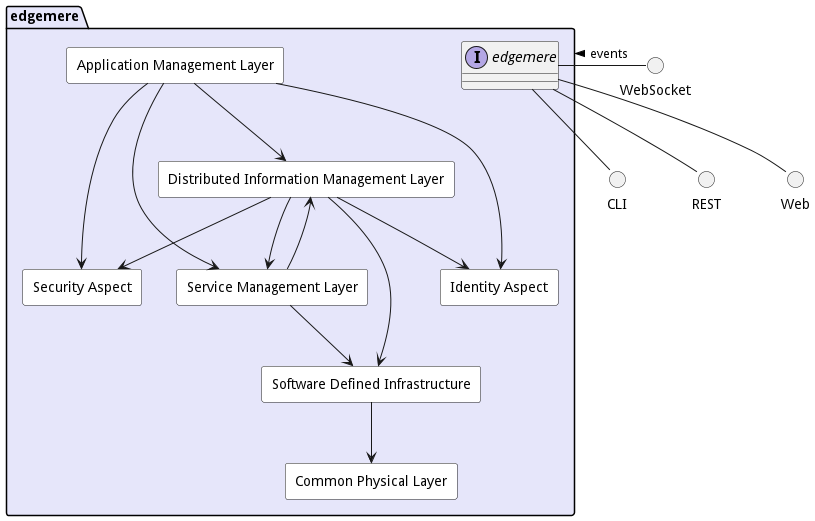
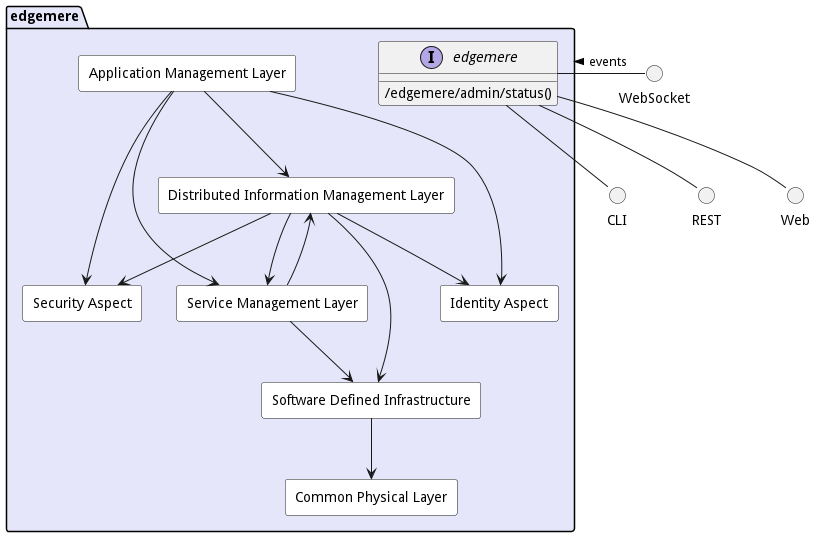
Updates to interface and package.json

diff --git a/api/interface/admin/status.js b/api/interface/admin/status.js
@@ -1,0 +1,22 @@
+const path = require('path');
+
+module.exports = {
+    friendlyName: 'status',
+    description: 'Status of the edgemere installation',
+    static: true, // True is for Class methods. False is for object based.
+    inputs: {
+    },
+
+    exits: {
+        success: {},
+        json: {},
+        notFound: {
+            description: 'No item with the specified ID was found in the database.',
+        }
+    },
+
+    fn: function (inputs, env) {
+        // inputs contains the obj for the this method.
+        env.res.json({status:"Running"});
+    }
+};

diff --git a/docs/edgemere/index.md b/docs/edgemere/index.md
@@ -74,6 +74,7 @@ users interact with the system.
 
 ![Scenario Mappings Diagram](./scenariomapping.png)
 
+* [ edgemere admin status](#action--edgemere-admin-status)
 
 
 ## Logical Artifacts
@@ -224,5 +225,21 @@ cases and scenarios of the subsystem.
 The edgemere subsystem has a well defined interface. This interface can be accessed using a
 command line interface (CLI), REST interface, and Web user interface. This interface is how all other
 subsystems and actors can access the system.
+
+### Action  edgemere admin status
+
+
+
+* REST - /edgemere/admin/status?
+* bin -  edgemere admin status 
+* js - .edgemere.admin.status({  })
+
+#### Description
+Status of the edgemere installation
+
+#### Parameters
+
+No parameters
+
 
 

diff --git a/docs/toc.md b/docs/toc.md
@@ -4,7 +4,7 @@ title: TOC
 permalink: toc
 nav_order: 8
 ---
-Version 0.3.6 
+Version 0.4.0 
 
 ## edgemere Overview
 * [edgemere](./edgemere/index.md)
